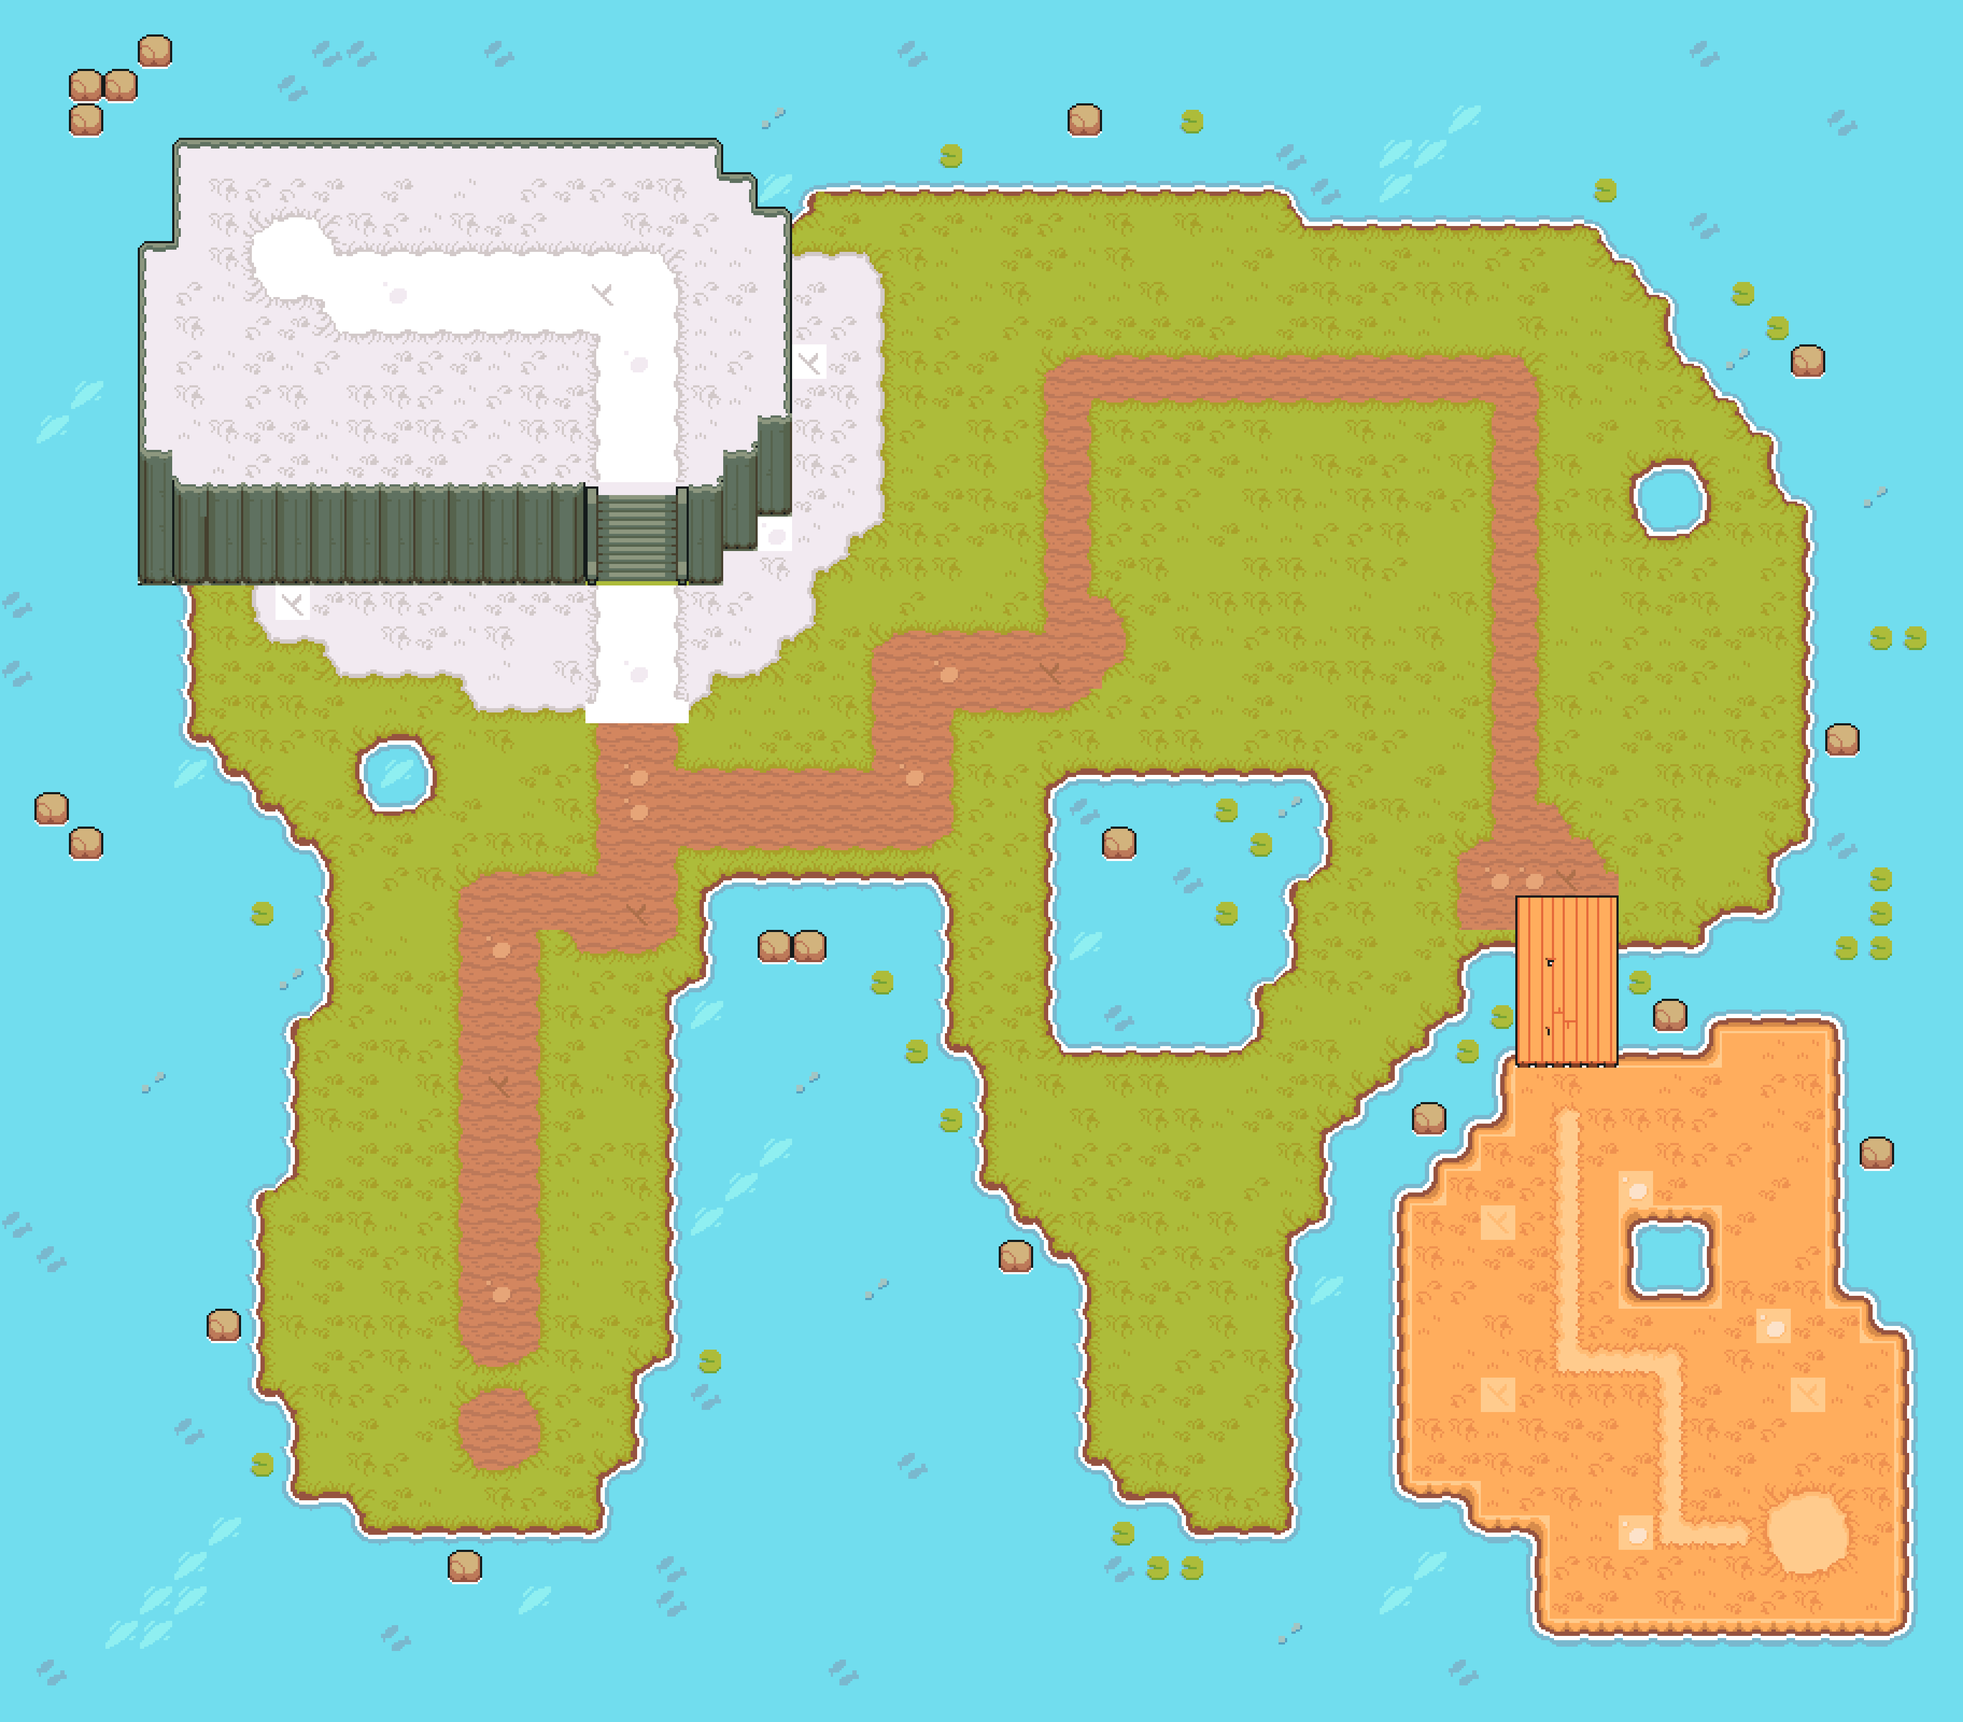
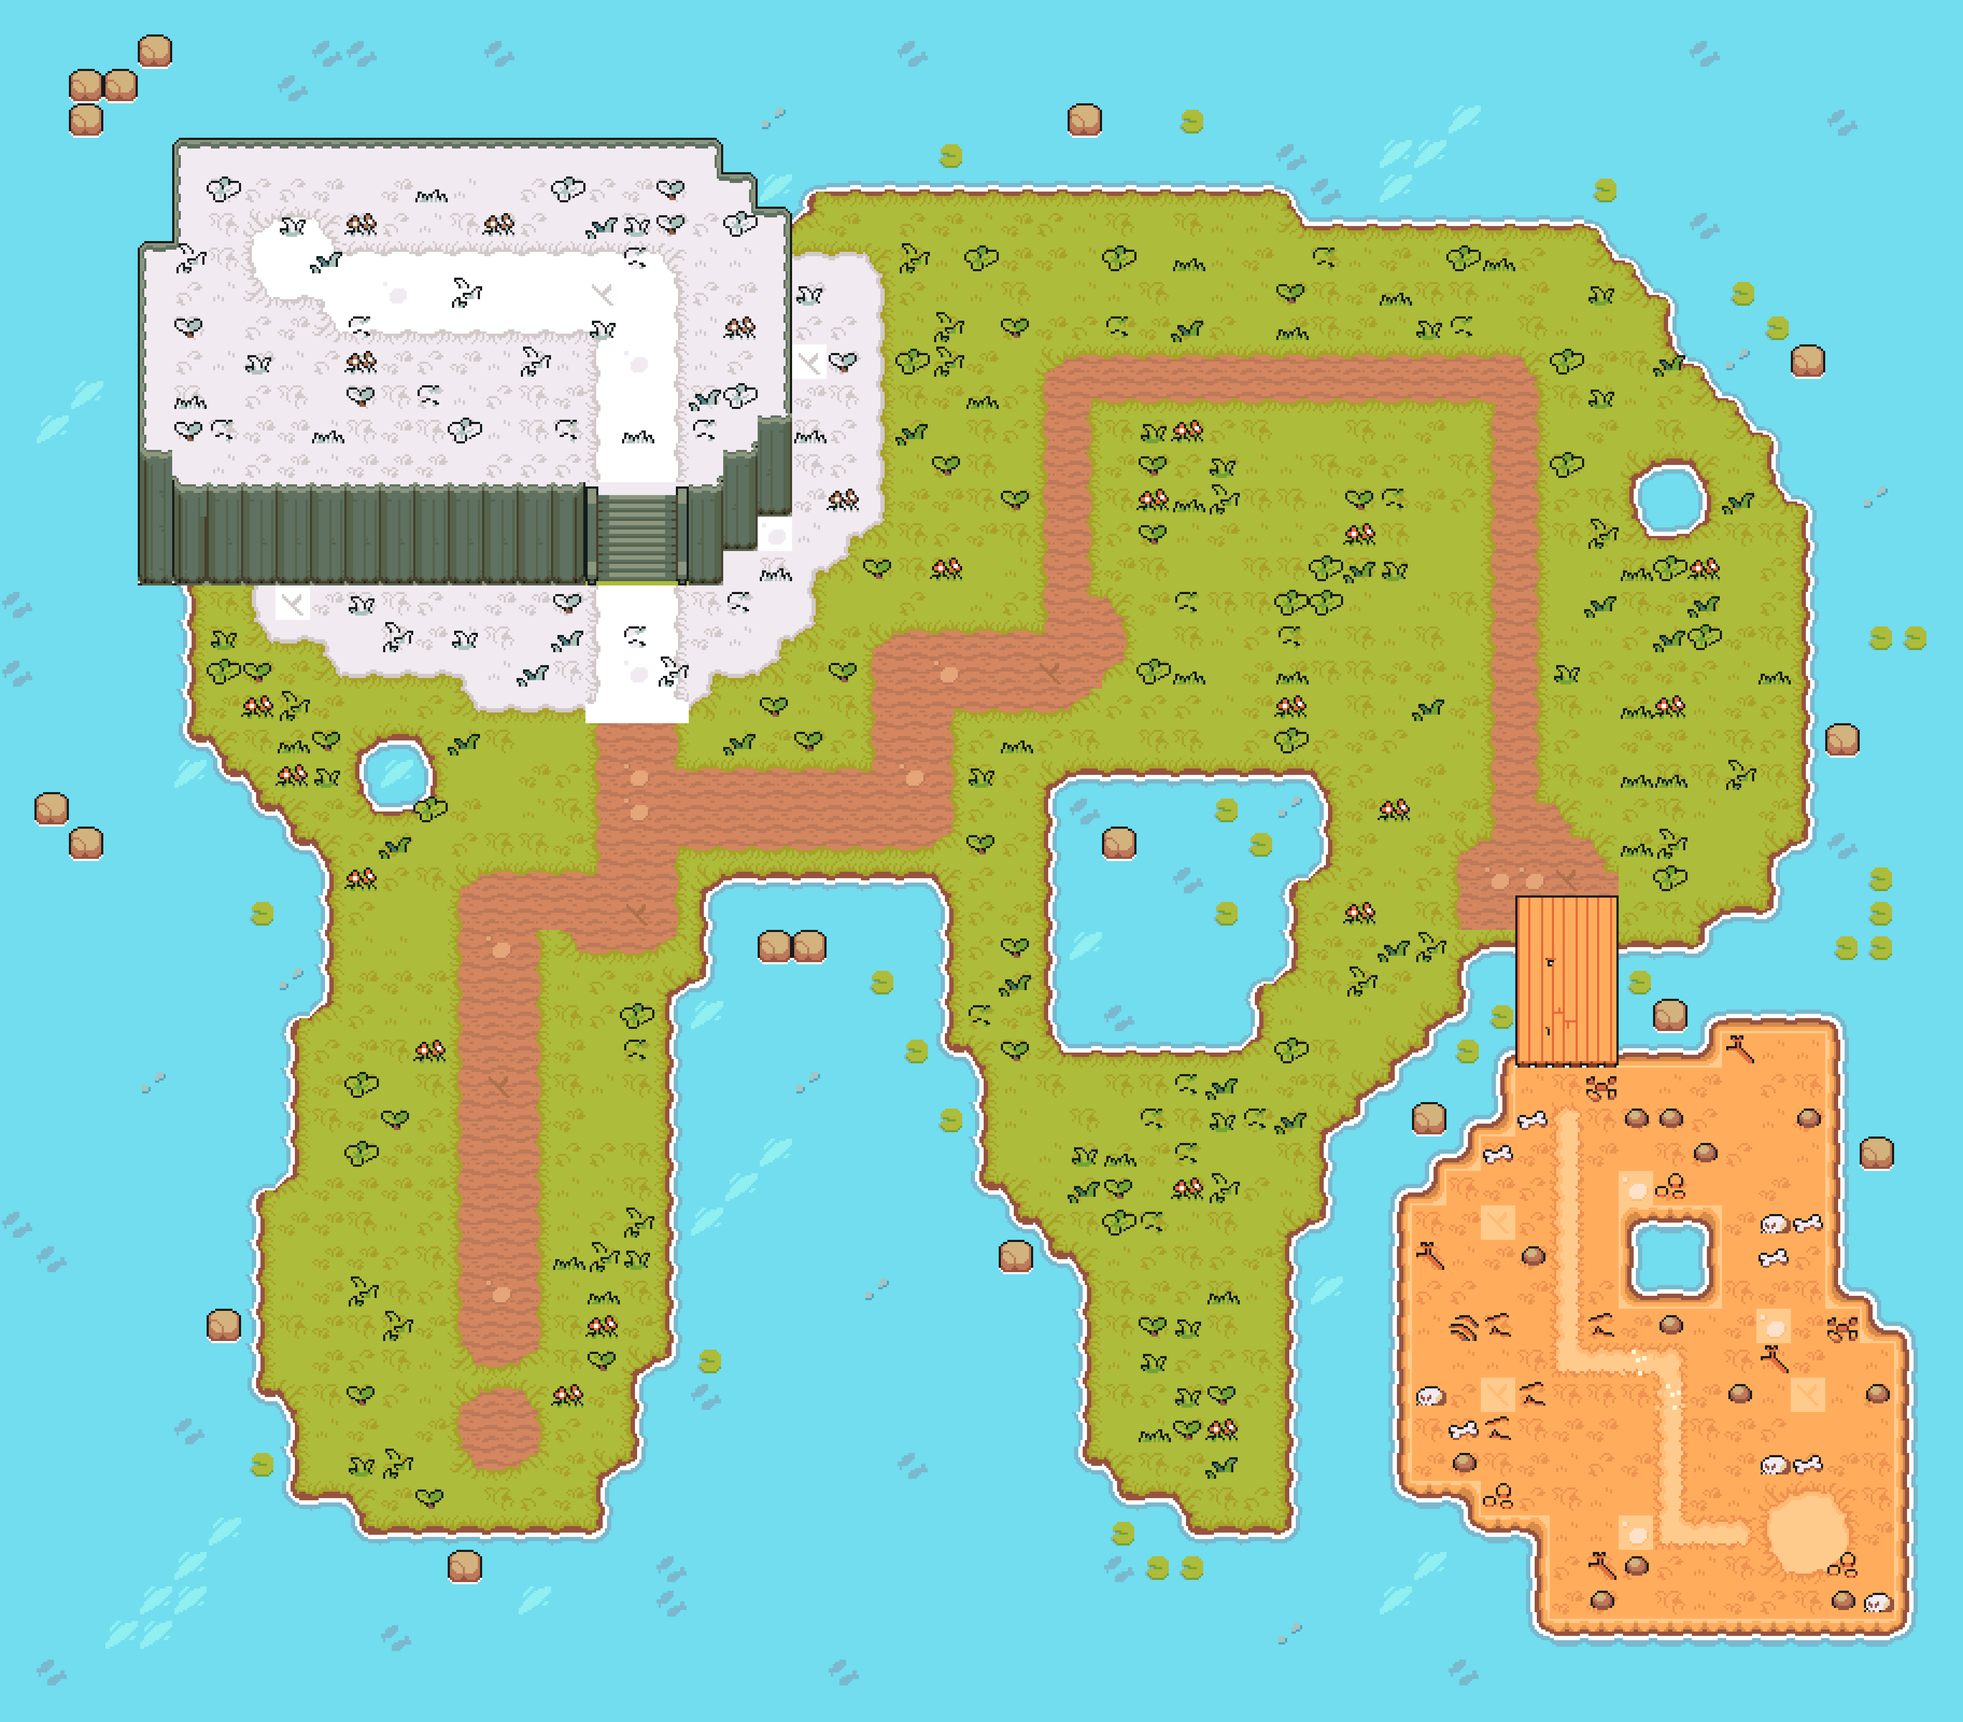
Character ANIMATIONS and WEAPON spawn/kill/switch
The character is following the direction of the keys and has moving, idle and attack animations and all the right orders.

Added weapons which will spawn the sprite for when the player is updated in the attack status and the weapons gets destroyed from the position when the animation is finished.
5 weapons have intended in a list and the another input key (q) has been added for switching inside the list, so the player can switch between weapons.

There is a cooldown for both attack and switching weapons.

Follow up:
Build UI interface (healthbar/manabar and so on.)
Magic
Enemies

diff --git a/projektZelda/code/player.py b/projektZelda/code/player.py
@@ -1,34 +1,112 @@
 import pygame
+from support import import_folder
 from settings import *
 
 class PLayer(pygame.sprite.Sprite):
-    def __init__(self,pos,groups, obstacle_sprites):
+    def __init__(self,pos,groups, obstacle_sprites, create_attack, destroy_attack):
         super().__init__(groups)
         self.image = pygame.image.load("../graphics/player_test.png").convert_alpha()
         self.rect = self.image.get_rect(topleft = pos)
-        self.hitbox = self.rect.inflate(0, -26)
+        self.hitbox = self.rect.inflate(0, -30)
 
+        # graphic setup
+        self.import_player_assets()
+        self.status = 'down'
+        self.frame_index = 0
+        self.animation_speed = 0.15
+
+        # movement
         self.direction = pygame.math.Vector2()
         self.speed = 5
+        self.attacking = False
+        self.attack_cooldown = 400
+        self.attack_time = None
 
         self.obstacle_sprites = obstacle_sprites
 
+        # weapon
+        self.create_attack = create_attack
+        self.destroy_attack = destroy_attack
+        self.weapon_index = 0
+        self.weapon = list(weapon_data.keys())[self.weapon_index]
+        self.can_switch_weapon = True
+        self.weapon_switch_time = None
+        self.switch_duration_cooldown = 200
+
+
+    def import_player_assets(self):
+        character_path = '../graphics/player/'
+        self.animations = {'up': [], 'down': [], 'left': [], 'right': [],
+            'right_idle':[],'left_idle':[],'up_idle':[],'down_idle':[],
+            'right_attack': [],'left_attack':[],'up_attack':[],'down_attack':[]}
+        for animation in self.animations.keys():
+            full_path = character_path + animation
+            self.animations[animation] = import_folder(full_path)
+
+
     def input(self):
-        keys = pygame.key.get_pressed()
+        if not self.attacking:
+            keys = pygame.key.get_pressed()
 
-        if keys[pygame.K_UP]:
-            self.direction.y = -1
-        elif keys[pygame.K_DOWN]:
-            self.direction.y = 1
-        else:
+            # movement input
+            if keys[pygame.K_UP]:
+                self.direction.y = -1
+                self.status = 'up'
+            elif keys[pygame.K_DOWN]:
+                self.direction.y = 1
+                self.status = 'down'
+            else:
+                self.direction.y = 0
+
+            if keys[pygame.K_RIGHT]:
+                self.direction.x = 1
+                self.status = 'right'
+            elif keys[pygame.K_LEFT]:
+                self.direction.x = -1
+                self.status = 'left'
+            else:
+                self.direction.x= 0
+
+            # attack input
+            if keys[pygame.K_SPACE]:
+                self.attacking = True
+                self.attack_time = pygame.time.get_ticks()
+                self.create_attack()
+
+            # magic input
+            if keys[pygame.K_LCTRL]:
+                self.attacking = True
+                self.attack_time = pygame.time.get_ticks()
+                print('magic')
+
+            if keys[pygame.K_q] and self.can_switch_weapon:
+                self.can_switch_weapon = False
+                self.weapon_switch_time = pygame.time.get_ticks()
+
+                if self.weapon_index < len(list(weapon_data.keys())) - 1:
+                    self.weapon_index += 1
+                else:
+                    self.weapon_index = 0
+                self.weapon = list(weapon_data.keys())[self.weapon_index]
+
+    def get_status(self):
+
+        # idle status
+        if self.direction.x == 0 and self.direction.y == 0:
+            if not 'idle' in self.status and not 'attack' in self.status:
+                self.status = self.status + '_idle'
+        # attack
+        if self.attacking:
+            self.direction.x = 0
             self.direction.y = 0
-
-        if keys[pygame.K_RIGHT]:
-            self.direction.x = 1
-        elif keys[pygame.K_LEFT]:
-            self.direction.x = -1
+            if not 'attack' in self.status:
+                if 'idle' in self.status:
+                    self.status = self.status.replace('_idle', '_attack')
+                else:
+                    self.status = self.status + '_attack'
         else:
-            self.direction.x= 0
+            if 'attack' in self.status:
+                self.status = self.status.replace('_attack', '')
 
     def move(self, speed):
         if self.direction.magnitude() != 0:
@@ -39,7 +117,6 @@ class PLayer(pygame.sprite.Sprite):
         self.hitbox.y += self.direction.y * speed
         self.collision('vertical')
         self.rect.center = self.hitbox.center
-
 
     def collision(self, direction):
         if direction == 'horizontal':  # horizontal collision, if player collides = pushed back other direction
@@ -57,6 +134,33 @@ class PLayer(pygame.sprite.Sprite):
                     if self.direction.y < 0:  # moving up
                         self.hitbox.top = sprite.hitbox.bottom
 
+    def cooldowns(self):
+        current_time = pygame.time.get_ticks()
+
+        if self.attacking:
+            if current_time - self.attack_time >= self.attack_cooldown:
+                self.attacking = False
+                self.destroy_attack()
+
+        if not self.can_switch_weapon:
+            if current_time - self.weapon_switch_time >= self.switch_duration_cooldown:
+                self.can_switch_weapon = True
+
+    def animate(self):
+        animation = self.animations[self.status]
+
+        # loop over the index, so the list repeats infinitely
+        self.frame_index += self.animation_speed
+        if self.frame_index >= len(animation):
+            self.frame_index = 0
+
+        # set the image
+        self.image = animation[int(self.frame_index)]
+        self.rect = self.image.get_rect(center = self.hitbox.center)
+
     def update(self):
         self.input()
+        self.cooldowns()
+        self.get_status()
+        self.animate()
         self.move(self.speed)

diff --git a/projektZelda/code/level.py b/projektZelda/code/level.py
@@ -3,6 +3,8 @@ from settings import *
 from tile import Tile
 from player import PLayer
 from support import *
+from random import choice
+from weapon import Weapon
 from debug import debug
 
 class Level:
@@ -15,14 +17,22 @@ class Level:
         self.visible_sprites = YSortCameraGroup()
         self.obstacle_sprites = pygame.sprite.Group()
 
+        # attack sprites
+        self.current_attack = None
+
         # sprite setup
         self.create_map()
     def create_map(self):
         layouts = {
-            'boundary': import_csv_layout('../map/map_FloorBlocks.csv')
-            'grass': import_csv_layout('../map/map_Grass.csv')
+            'boundary': import_csv_layout('../map/map_FloorBlocks.csv'),
+            'grass': import_csv_layout('../map/map_Grass.csv'),
             'object': import_csv_layout('../map/map_Objects.csv')
         }
+        graphics = {
+            'grass': import_folder('../graphics/grass'),
+            'objects': import_folder('../graphics/objects')
+        }
+
         for style, layout in layouts.items():
             for row_index, row in enumerate(layout):
                 for col_index, col in enumerate(row):
@@ -32,23 +42,27 @@ class Level:
                         if style == 'boundary':
                             Tile((x,y), [self.obstacle_sprites], 'invisible')
                         if style == 'grass':
-                            # create grass tile
-                            pass
+                            random_grass_image = choice(graphics['grass'])
+                            Tile((x,y), [self.visible_sprites, self.obstacle_sprites], 'grass', random_grass_image)
                         if style == 'object':
-                            # create object tile
-                            pass
-        '''
-                if col == 'x':
-                    Tile((x, y), [self.visible_sprites, self.obstacle_sprites])
-                if col == 'p':
-                    self.player = PLayer((x, y), [self.visible_sprites], self.obstacle_sprites)
-        '''
-        self.player = PLayer((1600, 1470), [self.visible_sprites], self.obstacle_sprites)
+                            surf = graphics['objects'][int(col)]
+                            Tile((x, y), [self.visible_sprites, self.obstacle_sprites], 'object', surf)
+
+        self.player = PLayer((1600, 1470), [self.visible_sprites], self.obstacle_sprites, self.create_attack, self.destroy_attack)
+
+    def create_attack(self):
+        self.current_attack = Weapon(self.player, [self.visible_sprites])
+
+    def destroy_attack(self):
+        if self.current_attack:
+            self.current_attack.kill()
+        self.current_attack = None
 
     def run(self):
         # update and draw the game
         self.visible_sprites.custom_draw(self.player)
         self.visible_sprites.update()
+        debug(self.player.status)
 
 
 class YSortCameraGroup(pygame.sprite.Group):

diff --git a/projektZelda/code/settings.py b/projektZelda/code/settings.py
@@ -4,25 +4,10 @@ HEIGHT = 720
 FPS = 60
 TITLESIZE = 64
 
-WORLD_MAP = [
-['x','x','x','x','x','x','x','x','x','x','x','x','x','x','x','x','x','x','x','x'],
-['x',' ',' ',' ',' ',' ',' ',' ',' ',' ',' ',' ',' ',' ',' ',' ',' ',' ',' ','x'],
-['x',' ','p',' ',' ',' ',' ',' ',' ',' ',' ',' ',' ',' ',' ',' ',' ',' ',' ','x'],
-['x',' ',' ','x',' ',' ',' ',' ',' ','x','x','x','x','x',' ',' ',' ',' ',' ','x'],
-['x',' ',' ','x',' ',' ',' ',' ',' ',' ',' ',' ',' ','x',' ',' ',' ',' ',' ','x'],
-['x',' ',' ','x',' ',' ',' ',' ',' ',' ',' ',' ',' ','x',' ',' ',' ',' ',' ','x'],
-['x',' ',' ','x',' ',' ',' ',' ',' ',' ',' ',' ',' ','x',' ',' ',' ',' ',' ','x'],
-['x',' ',' ','x',' ',' ',' ',' ',' ',' ',' ',' ',' ','x',' ',' ',' ',' ',' ','x'],
-['x',' ',' ','x',' ',' ',' ',' ',' ',' ',' ',' ',' ','x',' ',' ',' ',' ',' ','x'],
-['x',' ',' ','x',' ',' ',' ',' ',' ',' ',' ',' ',' ','x',' ',' ',' ',' ',' ','x'],
-['x',' ',' ','x',' ',' ',' ',' ',' ',' ',' ',' ',' ','x',' ',' ',' ',' ',' ','x'],
-['x',' ',' ','x',' ',' ',' ',' ',' ',' ',' ',' ',' ','x','x','x',' ',' ',' ','x'],
-['x',' ',' ',' ',' ',' ',' ','x',' ','x',' ',' ',' ',' ',' ',' ',' ',' ',' ','x'],
-['x',' ',' ',' ',' ',' ','x','x','x','x','x',' ',' ',' ',' ',' ',' ',' ',' ','x'],
-['x',' ',' ',' ',' ',' ',' ','x','x','x',' ',' ',' ',' ',' ',' ',' ',' ',' ','x'],
-['x',' ',' ',' ',' ',' ',' ',' ','x',' ',' ',' ',' ',' ',' ',' ',' ',' ',' ','x'],
-['x',' ',' ',' ',' ',' ',' ',' ',' ',' ',' ',' ',' ',' ',' ',' ',' ',' ',' ','x'],
-['x',' ',' ',' ',' ',' ',' ',' ',' ',' ',' ',' ',' ',' ',' ',' ',' ',' ',' ','x'],
-['x',' ',' ',' ',' ',' ',' ',' ',' ',' ',' ',' ',' ',' ',' ',' ',' ',' ',' ','x'],
-['x','x','x','x','x','x','x','x','x','x','x','x','x','x','x','x','x','x','x','x'],
-]
+# weapons
+weapon_data = {
+    'sword': {'cooldown': 100, 'damage': 15,'graphic':'../graphics/weapons/sword/full.png'},
+    'lance': {'cooldown': 400, 'damage': 30,'graphic':'../graphics/weapons/lance/full.png'},
+    'axe': {'cooldown': 300, 'damage': 20, 'graphic':'../graphics/weapons/axe/full.png'},
+    'rapier':{'cooldown': 50, 'damage': 8, 'graphic':'../graphics/weapons/rapier/full.png'},
+    'sai':{'cooldown': 80, 'damage': 10, 'graphic':'../graphics/weapons/sai/full.png'}}

diff --git a/projektZelda/code/weapon.py b/projektZelda/code/weapon.py
@@ -1,0 +1,20 @@
+import pygame
+
+class Weapon(pygame.sprite.Sprite):
+    def __init__(self, player, groups):
+        super().__init__(groups)
+        direction = player.status.split('_')[0]
+        print(direction)
+
+        # graphic
+        full_path = f'../graphics/weapons/{player.weapon}/{direction}.png'
+        self.image = pygame.image.load(full_path).convert_alpha()
+        # placement
+        if direction == 'right':
+            self.rect = self.image.get_rect(midleft = player.rect.midright + pygame.math.Vector2(0, 16))
+        elif direction == 'left':
+            self.rect = self.image.get_rect(midright=player.rect.midleft + pygame.math.Vector2(0, 16))
+        elif direction == 'down':
+            self.rect = self.image.get_rect(midtop=player.rect.midbottom + pygame.math.Vector2(-10, 0))
+        else:
+            self.rect = self.image.get_rect(midbottom=player.rect.midtop + pygame.math.Vector2(-10, 0))

diff --git a/projektZelda/code/tile.py b/projektZelda/code/tile.py
@@ -6,5 +6,8 @@ class Tile(pygame.sprite.Sprite):
         super().__init__(groups)
         self.sprite_type = sprite_type
         self.image = surface
-        self.rect = self.image.get_rect(topleft = pos)
+        if sprite_type == 'object':
+            self.rect = self.image.get_rect(topleft = (pos[0], pos[1] - TITLESIZE))
+        else:
+            self.rect = self.image.get_rect(topleft = pos)
         self.hitbox = self.rect.inflate(0,-10)

diff --git a/projektZelda/code/main.py b/projektZelda/code/main.py
@@ -24,7 +24,7 @@ class Game:
 
             self.screen.fill('black')
             self.level.run()
-            # debug('This called function is going to check some stuff later')
+            #  debug('This called function is going to check some stuff later')
             pygame.display.update()
             self.clock.tick(FPS)
 

diff --git a/projektZelda/code/support.py b/projektZelda/code/support.py
@@ -22,4 +22,3 @@ def import_folder(path):
             img_surf = pygame.image.load(full_path).convert_alpha()
             surface_list.append(img_surf)
     return surface_list
-import_folder('../graphics/Grass')
